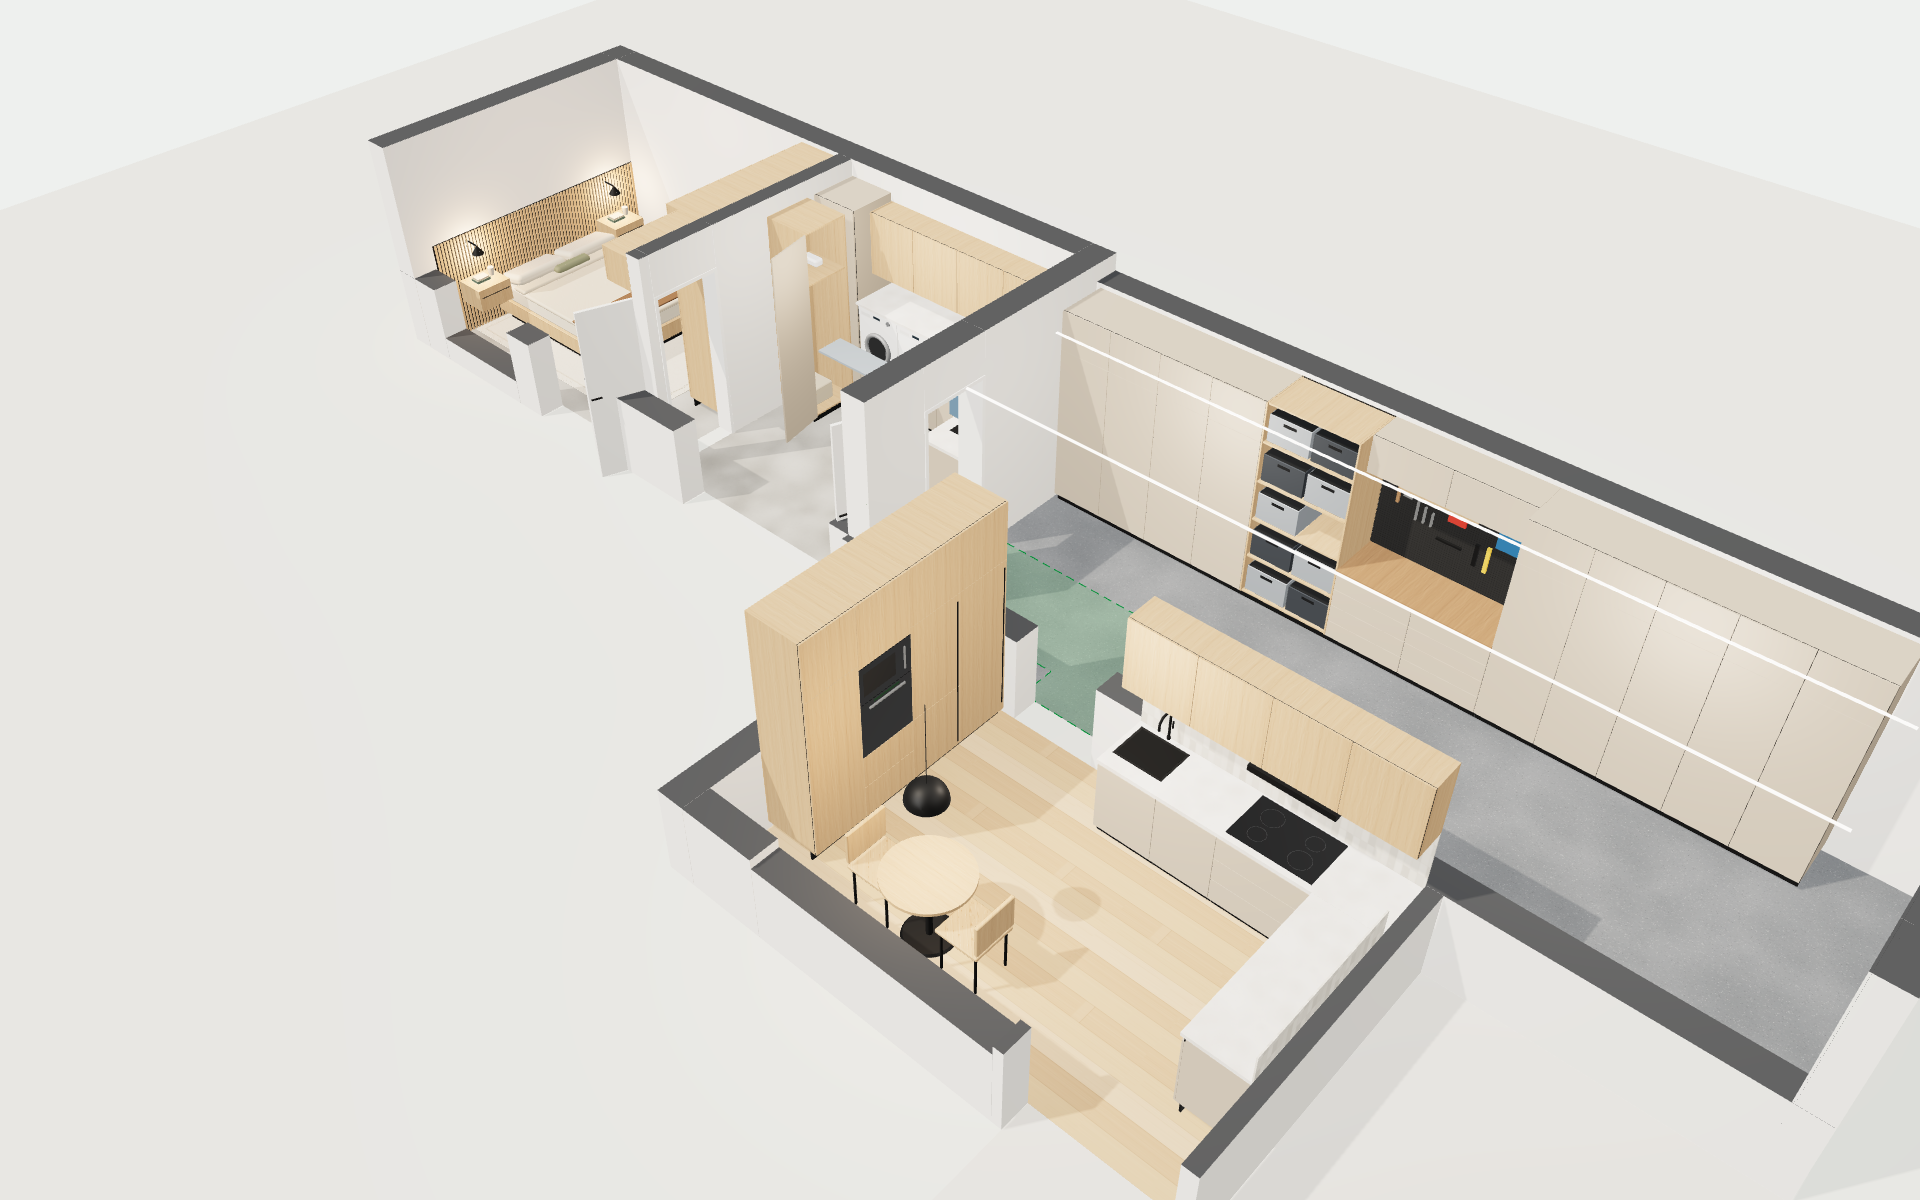
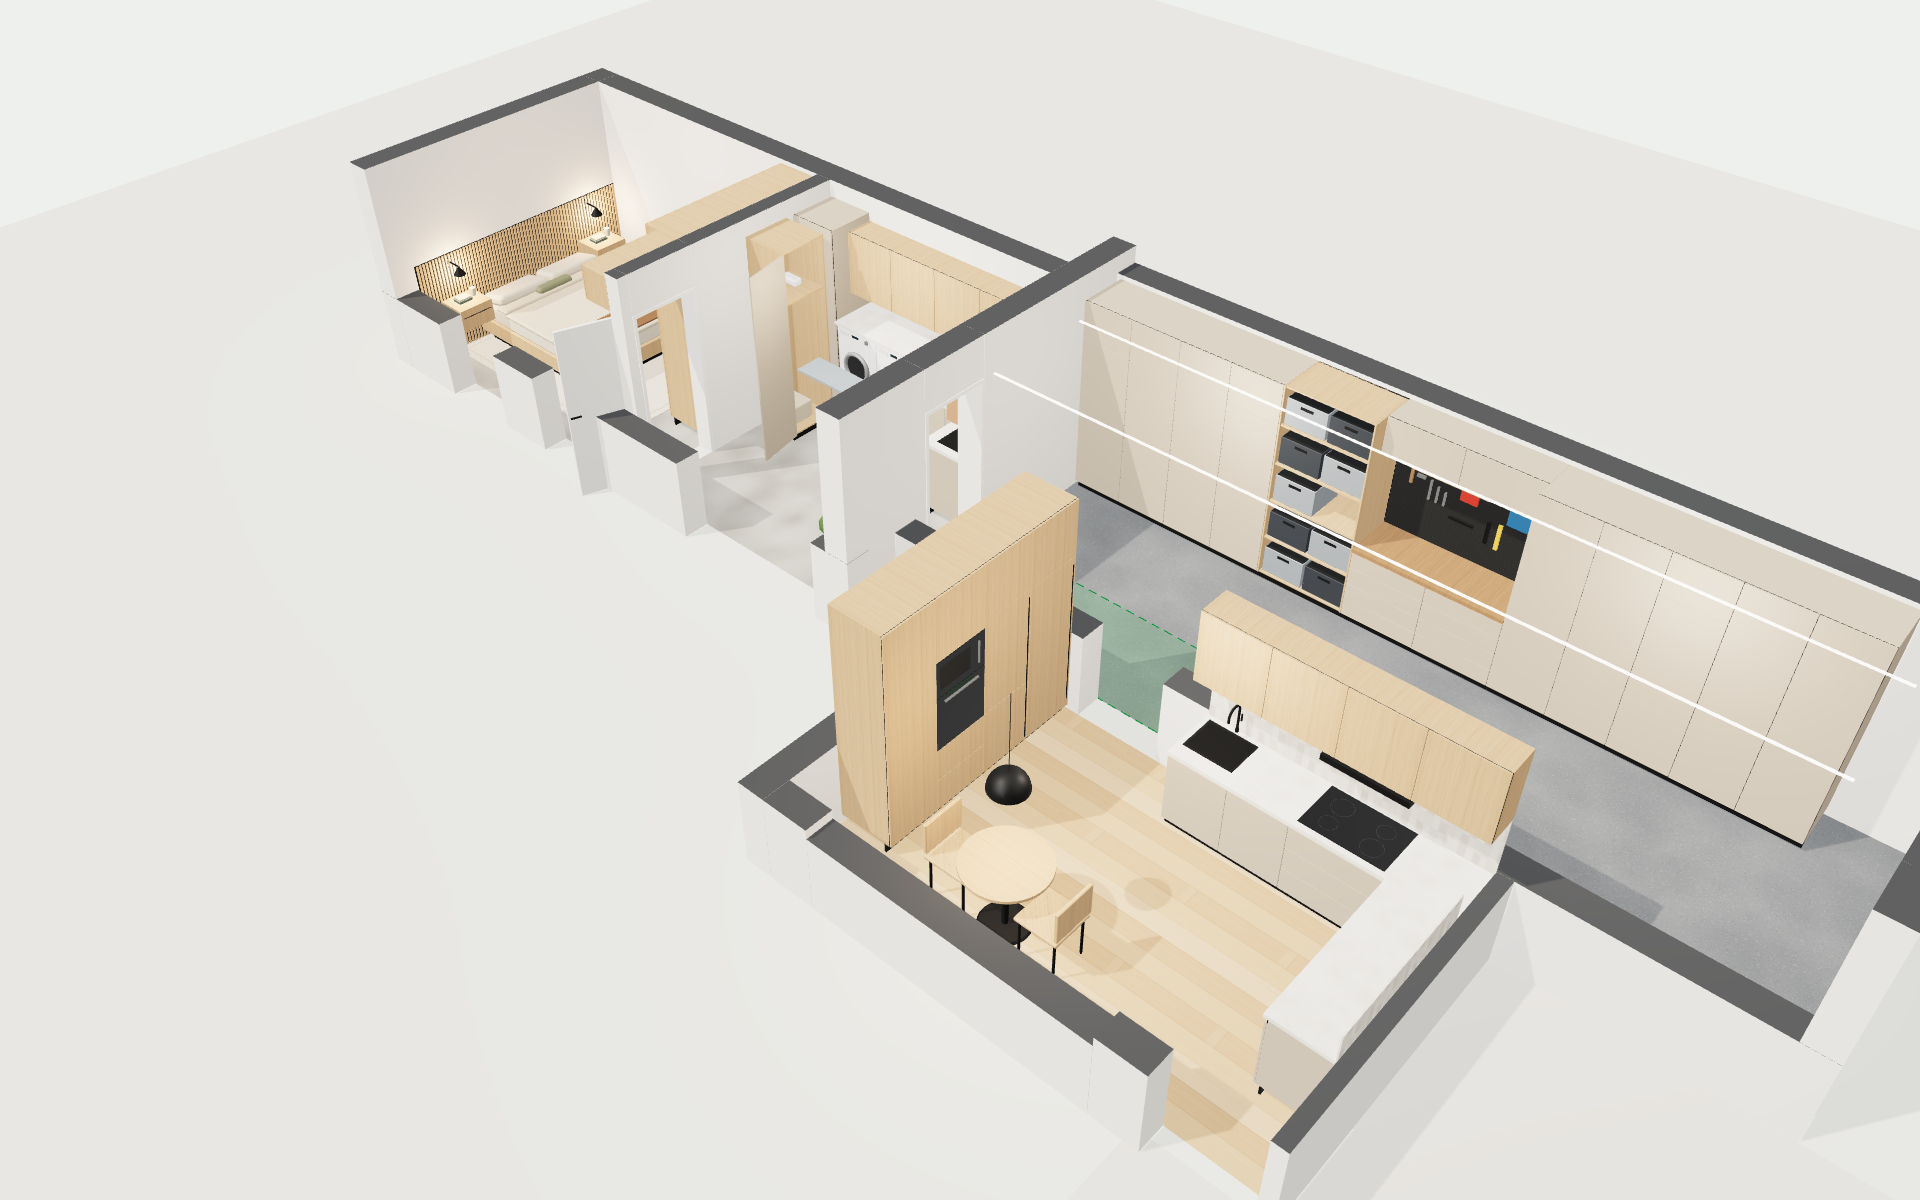
Fix A/D strafe in walk mode; update geometry from detailed drawing (facade openings, entrance door, kitchen window); tests for strafe, phone pad, new openings and furniture fit; new renders

Changed region(s): [[0.1875, 0.0308, 1.0, 1.0], [0.8125, 0.5242, 0.8438, 0.555], [0.4688, 0.3392, 0.5, 0.37]]

diff --git a/js/app.js b/js/app.js
@@ -501,7 +501,8 @@ function updateWalk(dt) {
   const side = new THREE.Vector2(-fwd.y, fwd.x);
   const mv = new THREE.Vector2();
   if (k.fwd) mv.add(fwd); if (k.back) mv.sub(fwd);
-  if (k.sr) mv.sub(side); if (k.sl) mv.add(side);
+  // side = camera's right-hand direction: D (sr) strafes right, A (sl) strafes left
+  if (k.sr) mv.add(side); if (k.sl) mv.sub(side);
   if (mv.lengthSq() > 0) {
     mv.normalize().multiplyScalar(speed / SCALE);
     // sub-step so fast frames cannot tunnel through thin walls
@@ -754,7 +755,7 @@ window.viz = {
   startWalk: (room) => startWalk(room), stopWalk: () => stopWalk(),
   tryMove, roomAt, walkable,
   setPose: (x, z, yawDeg = 0) => { camera.position.x = x * SCALE; camera.position.z = z * SCALE; walk.yaw = THREE.MathUtils.degToRad(yawDeg); walk.pitch = 0; },
-  position: () => ({ x: camera.position.x / SCALE, z: camera.position.z / SCALE, room: roomAt(camera.position.x / SCALE, camera.position.z / SCALE) }),
+  position: () => ({ x: camera.position.x / SCALE, z: camera.position.z / SCALE, yaw: THREE.MathUtils.radToDeg(walk.yaw), room: roomAt(camera.position.x / SCALE, camera.position.z / SCALE) }),
 };
 
 init().catch((e) => { console.error(e); $('#loading').innerHTML = '<span>Kon het model niet laden: ' + e.message + '</span>'; });

diff --git a/README.md b/README.md
@@ -19,7 +19,7 @@ The demo plan (`plans/vleugel.json`) is an interior design concept for a kitchen
 
 - Orbit **dollhouse view** with the ceilings off. Walls between the camera and the focus point are cut away automatically (toggle *Wanden: auto / laag / hoog*).
 - **Preset cameras** per room and a top-down **plan view**, all defined in the config.
-- **First-person walk mode** (*Rondlopen*): drag to look and use WASD or the arrow keys, or the on-screen pad on a phone. Walls block you except at doors, sliders and open passages; the closed garage door also blocks. The ceilings are shown in this mode.
+- **First-person walk mode** (*Rondlopen*): drag to look; W/S walk forward and back, A/D strafe left and right, and ←/→ (or Q/E) turn. On a phone, use the on-screen pad (⟲ turn left, ▲ forward, ⟳ turn right, ▼ back). Walls block you except at doors, sliders and open passages; the closed garage door also blocks. The ceilings are shown in this mode.
 - **Scenarios**: design variants that you can save, share by link (any device), export and import, and compare A ⇄ B.
 - **Clickable labels** and objects show a details panel with the dimensions (w × d × h). Hovering shows a tooltip.
 - A side panel lists the design choices per room and a table of room and element dimensions.
@@ -97,11 +97,21 @@ Other helpers on `window.viz`:
 - `shareUrl()`
 - for tests: `startWalk(room)`, `tryMove(dx,dz)`, `position()` and `setPose(x,z,yaw)`
 
+## Geometry notes (from the detailed drawing)
+
+All dimensions are in cm. x points east and z points south. The origin is the inner face of the garage's west wall, at its north side.
+
+- **Bedroom facade**, measured from the inner face of the west wall: 87 wall, then **104 floor-length window** (fixed), then 71.571 wall, then **104 glazed garden door**, then about 21 to the partition.
+- **Bijkeuken facade**: 140 wall (from the garden door, across the partition), then a **198 sliding door**, then about 20 to the garage wall.
+- **Entrance**: the extension facade sits **66** further south than the garage. In the **135**-wide niche between the extension and the kitchen there is a **90 glazed door** in the garage's south wall.
+- **Kitchen**: a **292 facade window**, a 90 door to the garage, and an opening of about 106 to the living room. The living room and the rest of the house are context areas only.
+- The garage–bijkeuken door is at garage z 210–295. The garage's sectional door stays closed in walk mode; to make it walkable, add `garage` to `PASSABLE` in `js/app.js`.
+
 ## Tests
 
 ```bash
 python3 -m http.server 8765 &
-node tools/test.mjs http://localhost:8765/   # walk keuken→garage→bijkeuken→slaapkamer, openings, walls, scenarios, share link
+node tools/test.mjs http://localhost:8765/   # walk keuken→garage→bijkeuken→slaapkamer, openings, walls, A/D strafe + phone pad, furniture fit, scenarios, share link
 ```
 
 ## URL parameters
@@ -221,7 +231,7 @@ Een eenvoudige, data-gedreven **3D-interieurvisualizer** die in de browser draai
 - **Overzicht**: een poppenhuisweergave van de hele vleugel, waarbij de wanden die in de weg staan automatisch omlaag gaan.
 - **Plattegrond**: een bovenaanzicht met alle labels.
 - **Keuken, Garage, Bijkeuken, Slaapkamer**: een vaste camera per ruimte.
-- **Rondlopen**: slepen om rond te kijken, en W, A, S, D, de pijltjes of de knoppen op je telefoon om te lopen.
+- **Rondlopen**: slepen om rond te kijken, en W/S vooruit en achteruit, A/D opzij naar links en rechts, ←/→ draaien, of de knoppen op je telefoon.
 - Klik op een element of label voor de maten en een toelichting. In het paneel staan de ontwerpkeuzes per ruimte en een maattabel.
 
 **Scenario's**: kies een variant (Basisontwerp, Licht & warm, Donker & strak) of maak je eigen variant via *Ontwerp aanpassen*.
